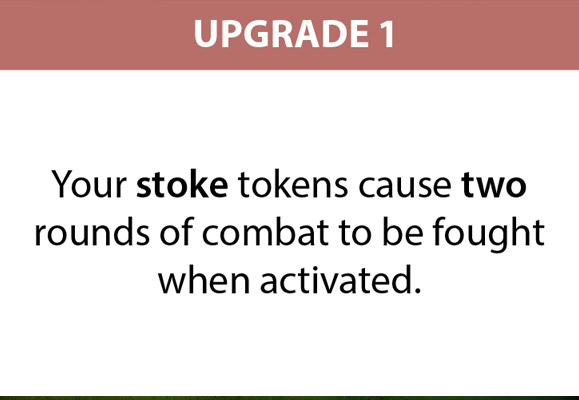
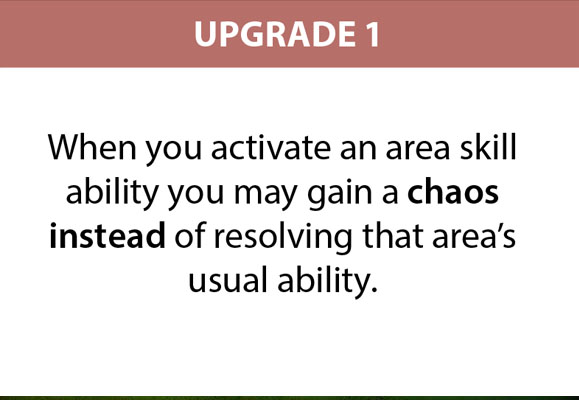
DEVILS: rework upgrades to give chaos with skill abilities

Changed region(s): [[0.0622, 0.33, 0.9326, 0.75], [0.342, 0.03, 0.6839, 0.12], [0.0, 0.15, 1.0, 0.18]]

diff --git a/server/classes/factions/Devils.js b/server/classes/factions/Devils.js
@@ -11,6 +11,7 @@ class Devils extends Faction {
         this.triggers = {
             "onCleanUp" : "resetChaos",
             "onFactionKillsUnit" : "checkKillChaos",
+            "onBeforeSkill" : "shouldChaosInsteadOfSkill",
         };
 
         // data
@@ -72,13 +73,34 @@ class Devils extends Faction {
     }
 
 
-    /**
-     * Process faction upgrade
-     *
-     * @param {number} upgrade
-     */
-    processUpgrade( upgrade ){
-        this.data.stokeBattles = upgrade + 1;
+    async shouldChaosInsteadOfSkill( area ){
+
+        // if we have our second upgrade gain a free chaos
+        if( this.data.upgrade === 2 ){
+            this.raiseChaos();
+            return {};
+        }
+
+        // if we don't have our first upgrade abort
+        if( this.data.upgrade !== 1 ){
+            return {};
+        }
+
+        // prompt player to decide to raise chaos instead of activate the skill ability
+        let response = await this.prompt( 'question', {
+            message: `Gain a chaos instead of resolving the skill ability of the ${area.name}?`,
+        });
+
+        // if we decline, abort
+        if ( !response.answer ){
+            this.message( `The devils declines to raise chaos instead of resolving the ${area.name} ability` );
+            return {};
+        }
+
+        // if we accept, raise chaos and set the flag to skip the skill
+        this.raiseChaos();
+        this.message(`The devils raise chaos instead of resolving the ${area.name} ability` );
+        return { dontResolveSkill : true };
     }
 
     checkKillChaos( unit, options ){

diff --git a/server/classes/factions/mixins/activatesSkills.js b/server/classes/factions/mixins/activatesSkills.js
@@ -27,20 +27,25 @@ let obj = {
         let exhaustedUnits = await this.useSkilledUnitsToActivateSkill( area, options );
 
         // handle any pre-skill triggers (that may modify our skill)
-        let skillModification = null;
+        let skillModification = {};
+
         if( this.triggers.onBeforeSkill ){
             skillModification = await this[this.triggers.onBeforeSkill]( area, exhaustedUnits );
         }
 
         try {
             // activate this area's skill
-            await area.skill( this );
+            if( !skillModification?.dontResolveSkill ){
+                await area.skill( this );
+            }
+
 
             // if we have the doubleResolve skill modification, resolve that skill a second time
             if( skillModification?.doubleResolve ) await area.skill( this );
 
             // handle any post skill activation triggers
             await this.handlePostSkillTriggers( area, exhaustedUnits );
+
         } catch ( error ) {
             console.error( error );
         }
